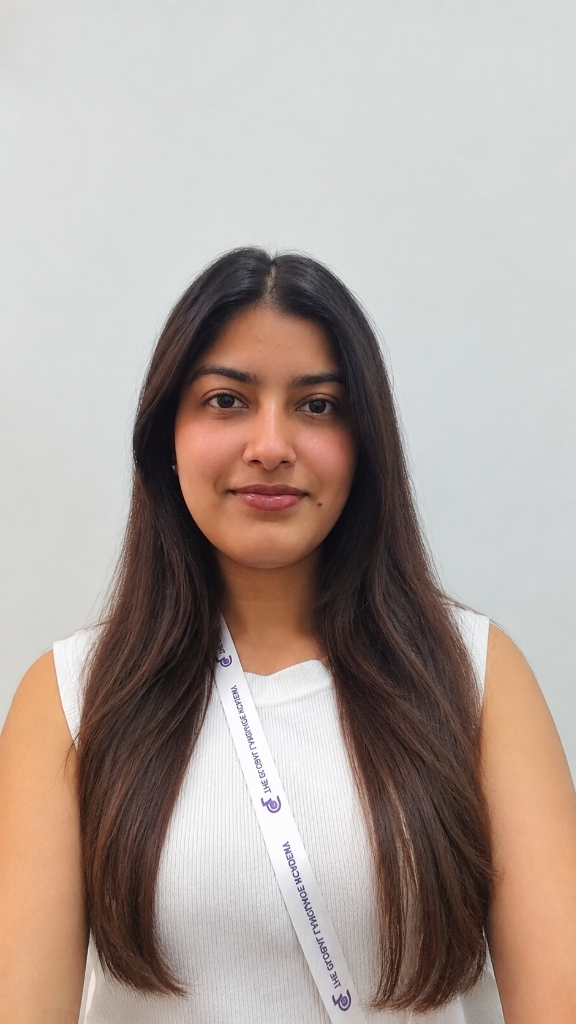
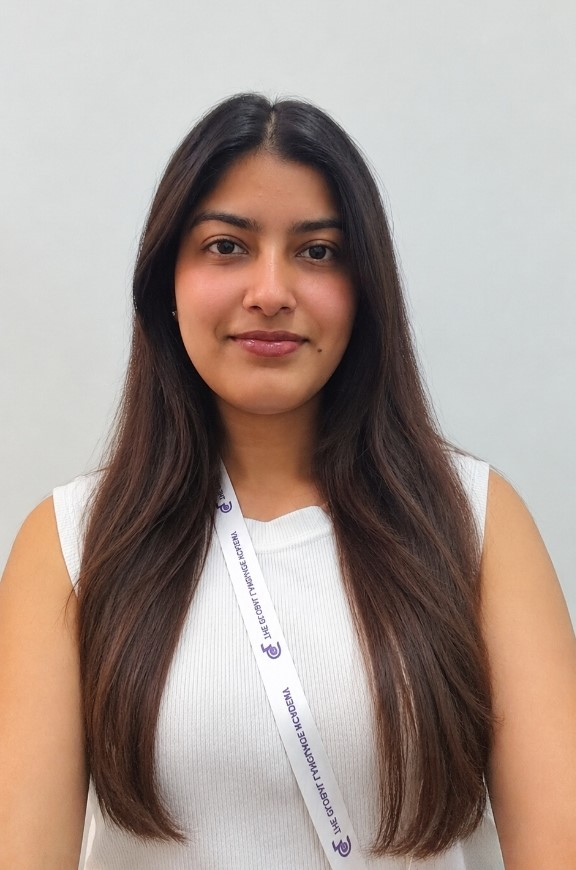
feat: add German trainer Ms. Stuti Saran with credentials and photo, update German course faculty and faculty card layouts

Changed region(s): [[0.0, 0.0931, 1.0, 0.9931]]

diff --git a/src/data/courses-db.ts b/src/data/courses-db.ts
@@ -13,6 +13,19 @@ export const facultyList: FacultyMember[] = [
       "CEFR Exam Preparation Specialist"
     ],
     bio: "Ms. Harshita Sablania specializes in interactive spoken German, active grammar immersion, and comprehensive exam preparation from A1 to advanced levels."
+  },
+  {
+    id: "fac-2",
+    name: "Ms. Stuti Saran",
+    role: "Senior German Language Trainer",
+    avatar: { src: "/images/faculty/stuti.jpg", alt: "Ms. Stuti Saran - German Language Trainer", width: 300, height: 300 },
+    credentials: [
+      "Diploma in German Language",
+      "Master in Hospitality",
+      "10+ Years Dedicated Teaching Experience",
+      "CEFR Exam Preparation Specialist"
+    ],
+    bio: "Ms. Stuti Saran brings over a decade of German language pedagogical expertise, focusing on CEFR examination excellence, structured grammar mastery, and professional intercultural fluency."
   }
 ];
 
@@ -1063,7 +1076,7 @@ export const coursesList: Course[] = [
         modules: ["Advanced Idiomatic Expressions", "Complex Sentence Structures (Nomen-Verb-Verbindungen)", "Academic Reading & Writing", "Expressing Nuanced Opinions"]
       }
     ],
-    faculty: [facultyList[0]],
+    faculty: facultyList,
     testimonials: germanTestimonials,
     faqs: germanFaqs,
     studentResults: [studentResultsList[0]],

diff --git a/src/app/courses/[slug]/GermanCourseView.tsx b/src/app/courses/[slug]/GermanCourseView.tsx
@@ -1579,7 +1579,7 @@ export default function GermanCourseView({ course, relatedCourses }: GermanCours
             <h2 className="text-3xl font-extrabold font-display text-navy tracking-tight">Who Will Train You?</h2>
           </div>
 
-          <div className="max-w-4xl mx-auto">
+          <div className="max-w-4xl mx-auto flex flex-col gap-8">
             {course.faculty.map((trainer) => (
               <div key={trainer.id} className="w-full">
                 <FacultyCard faculty={trainer} />

diff --git a/src/app/about/page.tsx b/src/app/about/page.tsx
@@ -711,7 +711,7 @@ export default function AboutPage() {
             </p>
           </div>
 
-          <div className="max-w-4xl mx-auto">
+          <div className="max-w-4xl mx-auto flex flex-col gap-8">
             {facultyList.map((fac) => (
               <div key={fac.id} className="h-full">
                 <FacultyCard faculty={fac} layout="horizontal" />

diff --git a/src/app/page.tsx b/src/app/page.tsx
@@ -676,7 +676,7 @@ export default function HomePage() {
             </p>
           </div>
 
-          <div className="max-w-4xl mx-auto">
+          <div className="max-w-4xl mx-auto flex flex-col gap-8">
             {facultyList.map((fac) => (
               <FacultyCard key={fac.id} faculty={fac} layout="horizontal" />
             ))}
